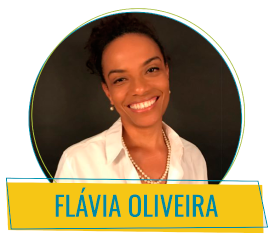
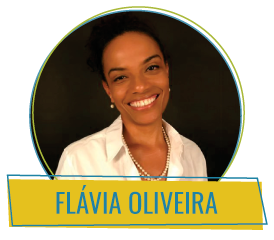
Menu mobile corrigido
Menu mobile corrigido e imagens de participantes atualizadas para pngs transparentes

Changed region(s): [[0.0, 0.0, 0.9927, 0.9917], [0.5547, 0.1458, 0.5839, 0.175], [0.5255, 0.0875, 0.5547, 0.1167]]

diff --git a/css/main.css b/css/main.css
@@ -212,6 +212,16 @@ footer{
 	.navbar-toggle{
 	background-color: #FFF;
 	margin-top: 30px;
+	z-index: 999;
+
+	-webkit-transform: rotate(0deg);
+  -moz-transform: rotate(0deg);
+  -o-transform: rotate(0deg);
+  transform: rotate(0deg);
+  -webkit-transition: .5s ease-in-out;
+  -moz-transition: .5s ease-in-out;
+  -o-transition: .5s ease-in-out;
+  transition: .5s ease-in-out;
 	}
 
 	.navbar-toggle .icon-bar{
@@ -219,7 +229,51 @@ footer{
 		width: 40px;
 		height: 3px;
 		margin-bottom: 10px;
+		margin-top: 5px;
+
+		-webkit-transform: rotate(0deg);
+  -moz-transform: rotate(0deg);
+  -o-transform: rotate(0deg);
+  transform: rotate(0deg);
+  -webkit-transition: .25s ease-in-out;
+  -moz-transition: .25s ease-in-out;
+  -o-transition: .25s ease-in-out;
+  transition: .25s ease-in-out;
 	}
+
+
+	#navbar-toggle .icon-bar:nth-child(1) {
+  top: 0px;
+}
+
+#navbar-toggle .icon-bar:nth-child(2) {
+  top: 18px;
+}
+
+#navbar-toggle .icon-bar:nth-child(3) {
+  top: 36px;
+}
+
+#navbartoggle.open icon-bar:nth-child(1) {
+  top: 18px;
+  -webkit-transform: rotate(135deg);
+  -moz-transform: rotate(135deg);
+  -o-transform: rotate(135deg);
+  transform: rotate(135deg);
+}
+
+#navbartoggle.open icon-bar:nth-child(2) {
+  opacity: 0;
+  left: -60px;
+}
+
+#navbartoggle.open icon-bar:nth-child(3) {
+  top: 18px;
+  -webkit-transform: rotate(-135deg);
+  -moz-transform: rotate(-135deg);
+  -o-transform: rotate(-135deg);
+  transform: rotate(-135deg);
+}
 
 	.wrapper {
     position: relative; 
@@ -240,19 +294,18 @@ footer{
     height: 100%;
     position: relative;
     transform: translateX(0);
-    transition: .3s ease all;
 	}
 
 	/* The side navigation menu */
 	.sidenav {
-	    height: 100%; /* 100% Full-height */
+	    height: 100vh;
 	    position: absolute; /* Stay in place */
 	    transform: translateX(400px);
 	    top: 0;
     	right: 0;
 	    width: 300px;
-	    padding: 5rem;
-	    background-color: #00809e; /* Black*/
+	    padding: 2rem;
+	    background-color: #00809e;
 	    transition: 0.5s; /* 0.5 second transition effect to slide in the sidenav */
 	}
 
@@ -276,8 +329,7 @@ footer{
 	
 	.navbar-nav{
 	  margin-top: 0;
-	  padding-top: 3rem;
-	  background-color: #00809e;
+	  padding-top: 5rem;
 	  height: 100%;
 	}
 

diff --git a/index.html b/index.html
@@ -23,7 +23,7 @@
         <nav class="navbar navbar-fixed-top" role="navigation">
           <div class="container">
             <div class="navbar-header">
-              <a href="#" class="navbar-toggle collapsed toggle-menu" aria-controls="navbar">
+              <a href="#" class="navbar-toggle toggle-menu" aria-controls="navbar">
                 <span class="sr-only">Toggle navigation</span>
                 <span class="icon-bar"></span>
                 <span class="icon-bar"></span>
@@ -33,7 +33,6 @@
             </div>
             <div id="mySidenav" class="sidenav">
               <ul class="nav navbar-nav navbar-right">
-                    <a href="#" class="toggle-menu">&times;</a>
                     <li><a href="#" class="active">Home</a></li>
                     <li><a href="#">Sobre</a></li>
                     <li><a href="#">Participantes</a></li>

diff --git a/js/main.js b/js/main.js
@@ -13,5 +13,6 @@ function menuAction() {
     }
     else {
         wrapper.classList.add('show-menu');
+        $(this).toggleClass('open');
     }
 }
